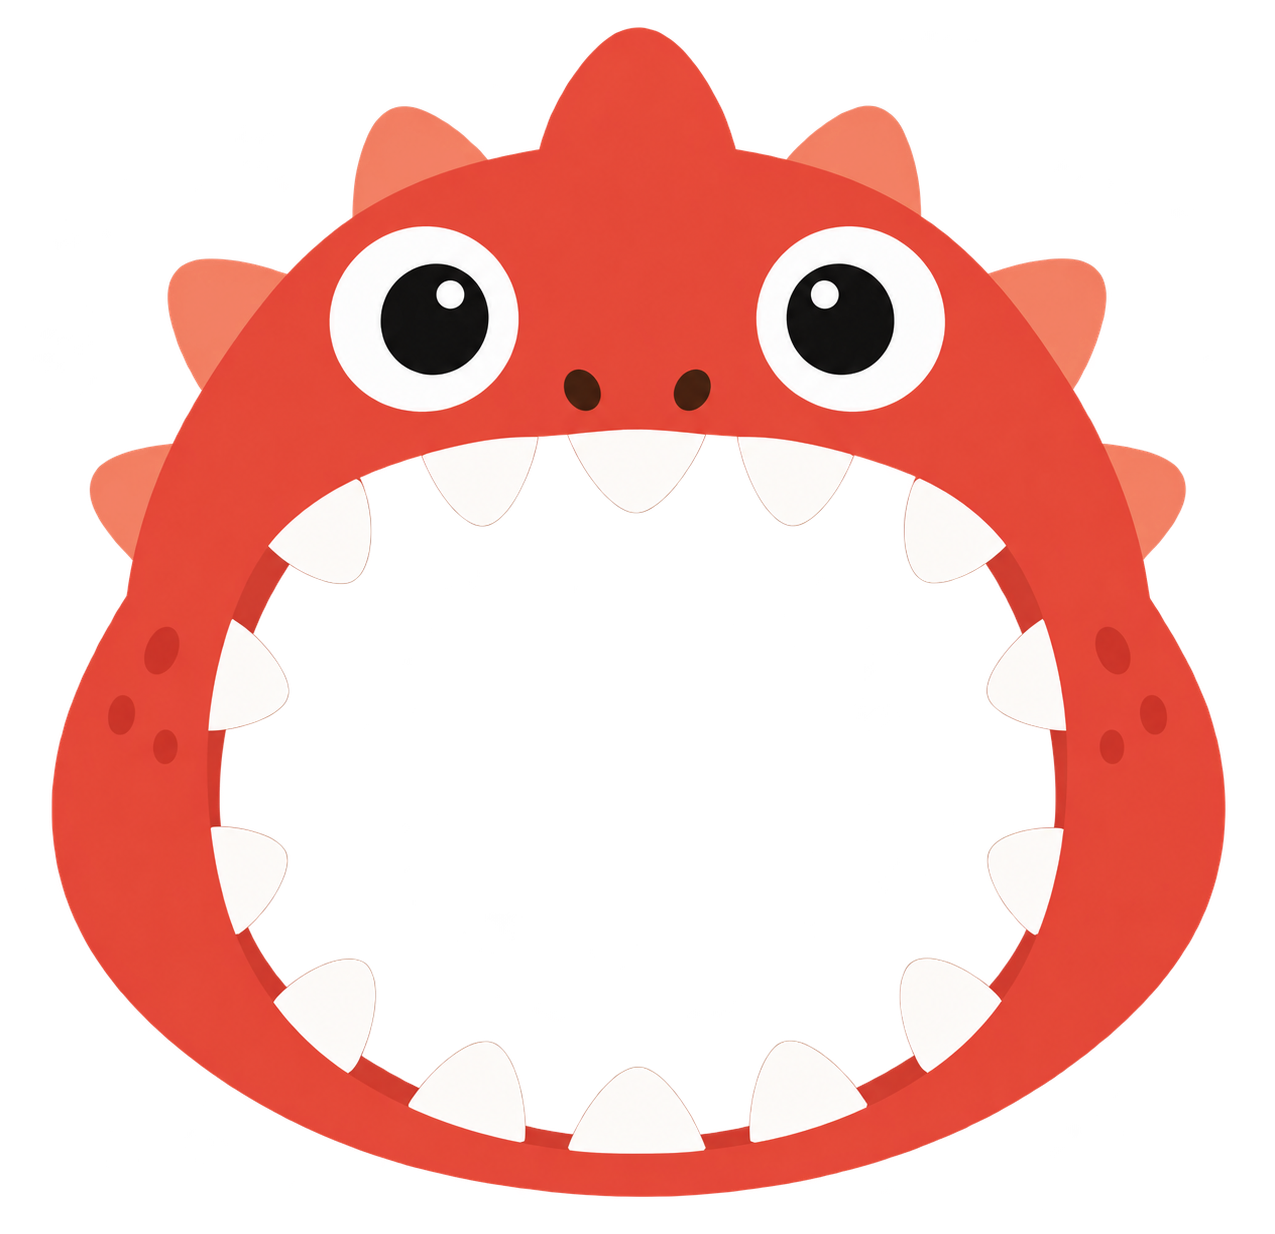
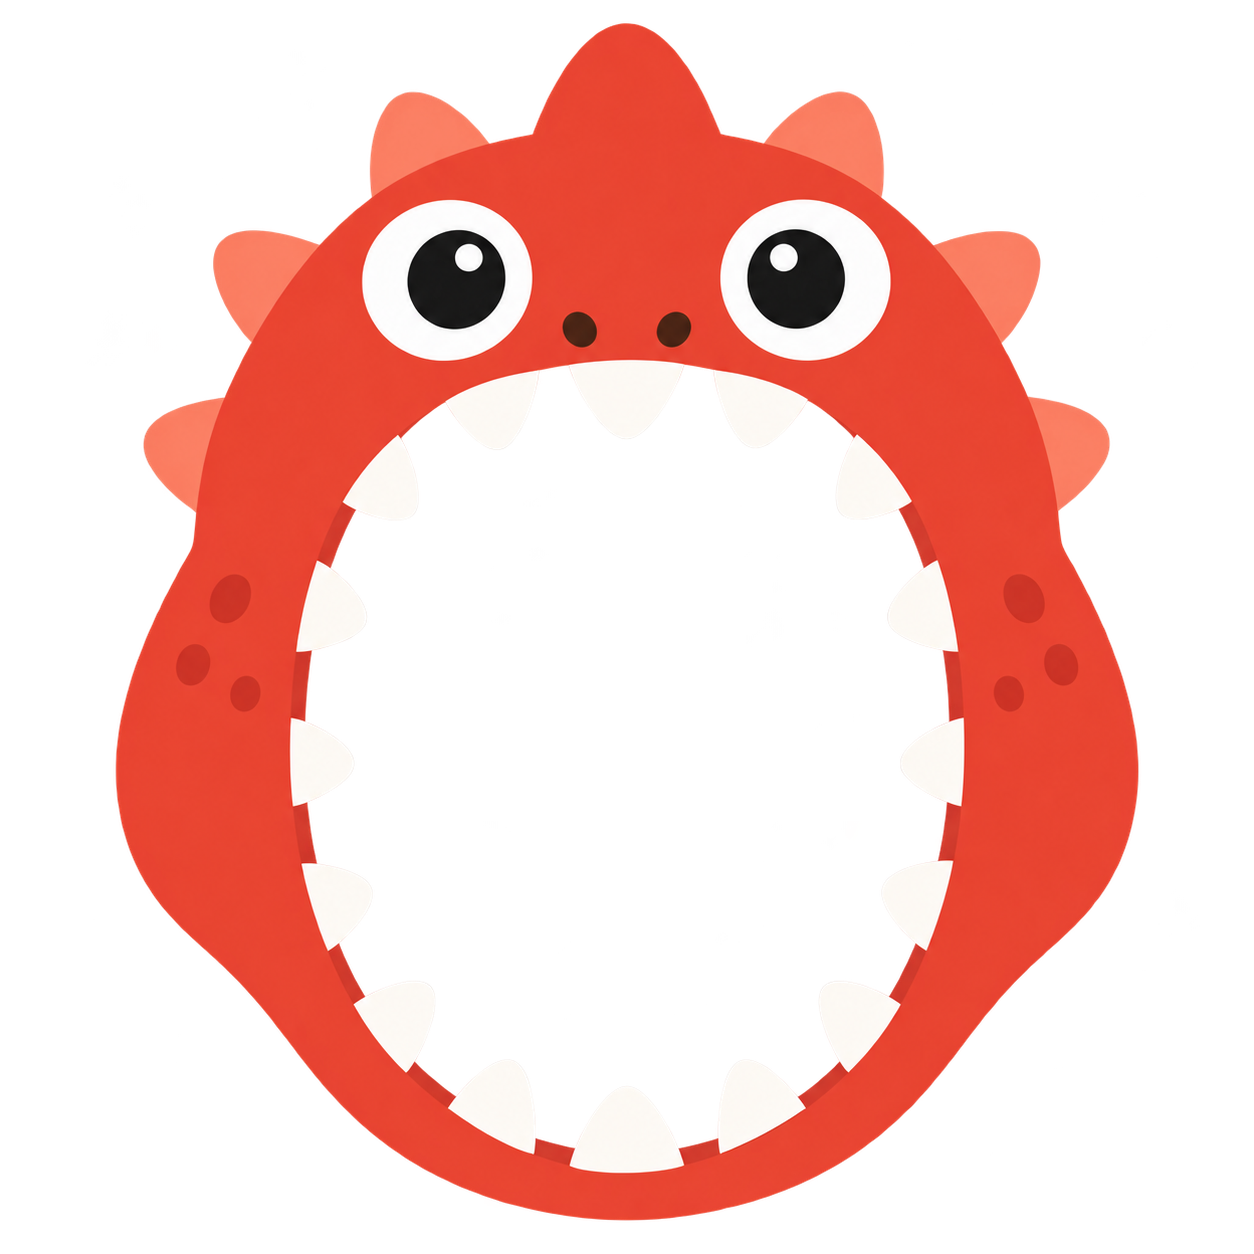
그림 에셋 교체

diff --git a/src/main.js b/src/main.js
@@ -63,18 +63,23 @@ function formatTime(ms) {
 // wasm과 모델 모두 public/에서 서빙한다. 영상은 브라우저 밖으로 나가지 않는다.
 // 폰·저사양 기기는 GPU 델리게이트가 없을 수 있으므로 CPU로 물러난다.
 let delegateUsed = 'GPU';
-async function createFaceLandmarker() {
-  const fileset = await FilesetResolver.forVisionTasks('/wasm');
-  const opts = (delegate) => ({
+let filesetPromise = null;
+
+async function createFaceLandmarkerOn(delegate) {
+  filesetPromise ??= FilesetResolver.forVisionTasks('/wasm');
+  return FaceLandmarker.createFromOptions(await filesetPromise, {
     baseOptions: { modelAssetPath: '/models/face_landmarker.task', delegate },
     runningMode: 'VIDEO',
     numFaces: 1,
   });
+}
+
+async function createFaceLandmarker() {
   try {
-    return await FaceLandmarker.createFromOptions(fileset, opts('GPU'));
+    return await createFaceLandmarkerOn('GPU');
   } catch {
     delegateUsed = 'CPU';
-    return FaceLandmarker.createFromOptions(fileset, opts('CPU'));
+    return createFaceLandmarkerOn('CPU');
   }
 }
 
@@ -192,6 +197,28 @@ async function main() {
   let energy = 0;
 
   let reportedError = false;
+  let detectFails = 0;
+  let lastDetectError = '';
+  let swapping = false;
+
+  // GPU 델리게이트가 계속 NaN을 뱉으면 CPU로 다시 만든다.
+  // 만드는 동안은 검출을 건너뛴다 — 옛 인스턴스를 닫는 중에 부르면 또 터진다.
+  function swapToCpu() {
+    if (swapping) return;
+    swapping = true;
+    delegateUsed = 'CPU(전환중)';
+    createFaceLandmarkerOn('CPU')
+      .then((next) => {
+        faceLandmarker.close?.();
+        faceLandmarker = next;
+        delegateUsed = 'CPU';
+        detectFails = 0;
+      })
+      .catch((err) => fail(`CPU 전환 실패: ${err.message}`))
+      .finally(() => {
+        swapping = false;
+      });
+  }
 
   function loop() {
     try {
@@ -213,9 +240,24 @@ async function main() {
     lastTickAt = now;
     syncCanvas();
 
-    if (video.currentTime !== lastVideoTime && video.videoWidth > 0) {
+    const ready =
+      video.readyState >= 2 && video.videoWidth > 0 && video.videoHeight > 0 && !swapping;
+
+    if (ready && video.currentTime !== lastVideoTime) {
       lastVideoTime = video.currentTime;
-      lastResult = faceLandmarker.detectForVideo(video, now);
+
+      // 한 프레임 실패로 루프를 죽이지 않는다.
+      // 모바일에서는 "ROI contains NaN values"가 산발적으로 뜨는데,
+      // 다음 프레임엔 멀쩡한 경우가 많다. 계속 실패하면 그때 CPU로 갈아탄다.
+      try {
+        lastResult = faceLandmarker.detectForVideo(video, now);
+        detectFails = 0;
+      } catch (err) {
+        detectFails += 1;
+        lastDetectError = err.message;
+        if (detectFails >= 12 && delegateUsed === 'GPU') swapToCpu();
+      }
+
       ({ brushing, energy } = detector.update(lastResult?.faceLandmarks?.[0] ?? null, now));
 
       // 프레임 간격을 지수 평활해서 FPS 표시가 튀지 않게 한다.
@@ -248,7 +290,8 @@ async function main() {
         ` · FPS: ${fps.toFixed(0)} · ${delegateUsed}` +
         ` · video ${video.videoWidth}x${video.videoHeight}` +
         ` · canvas ${canvas.width}x${canvas.height}` +
-        ` · art ${Object.keys(art).length}`;
+        ` · art ${Object.keys(art).length}` +
+        (detectFails ? ` · 검출실패 ${detectFails}회: ${lastDetectError.slice(0, 60)}` : '');
     }
   }
 
